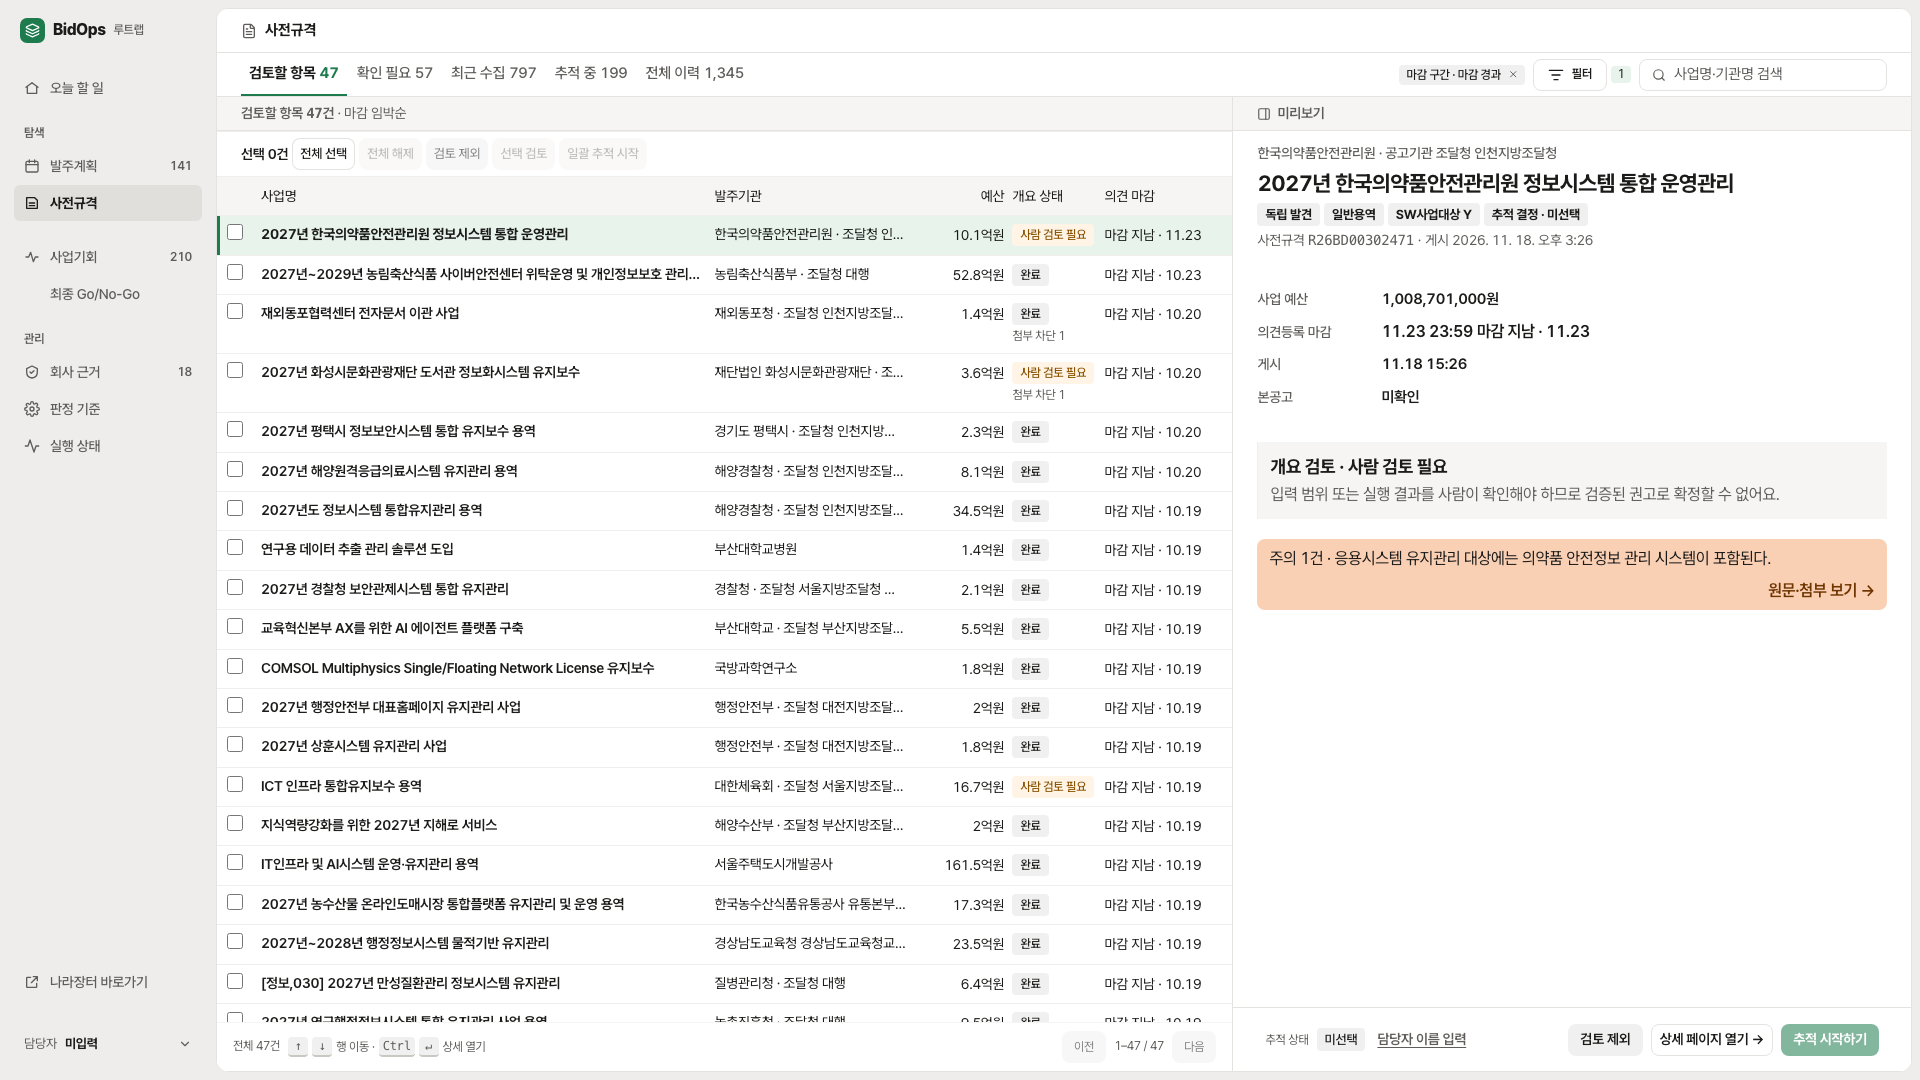
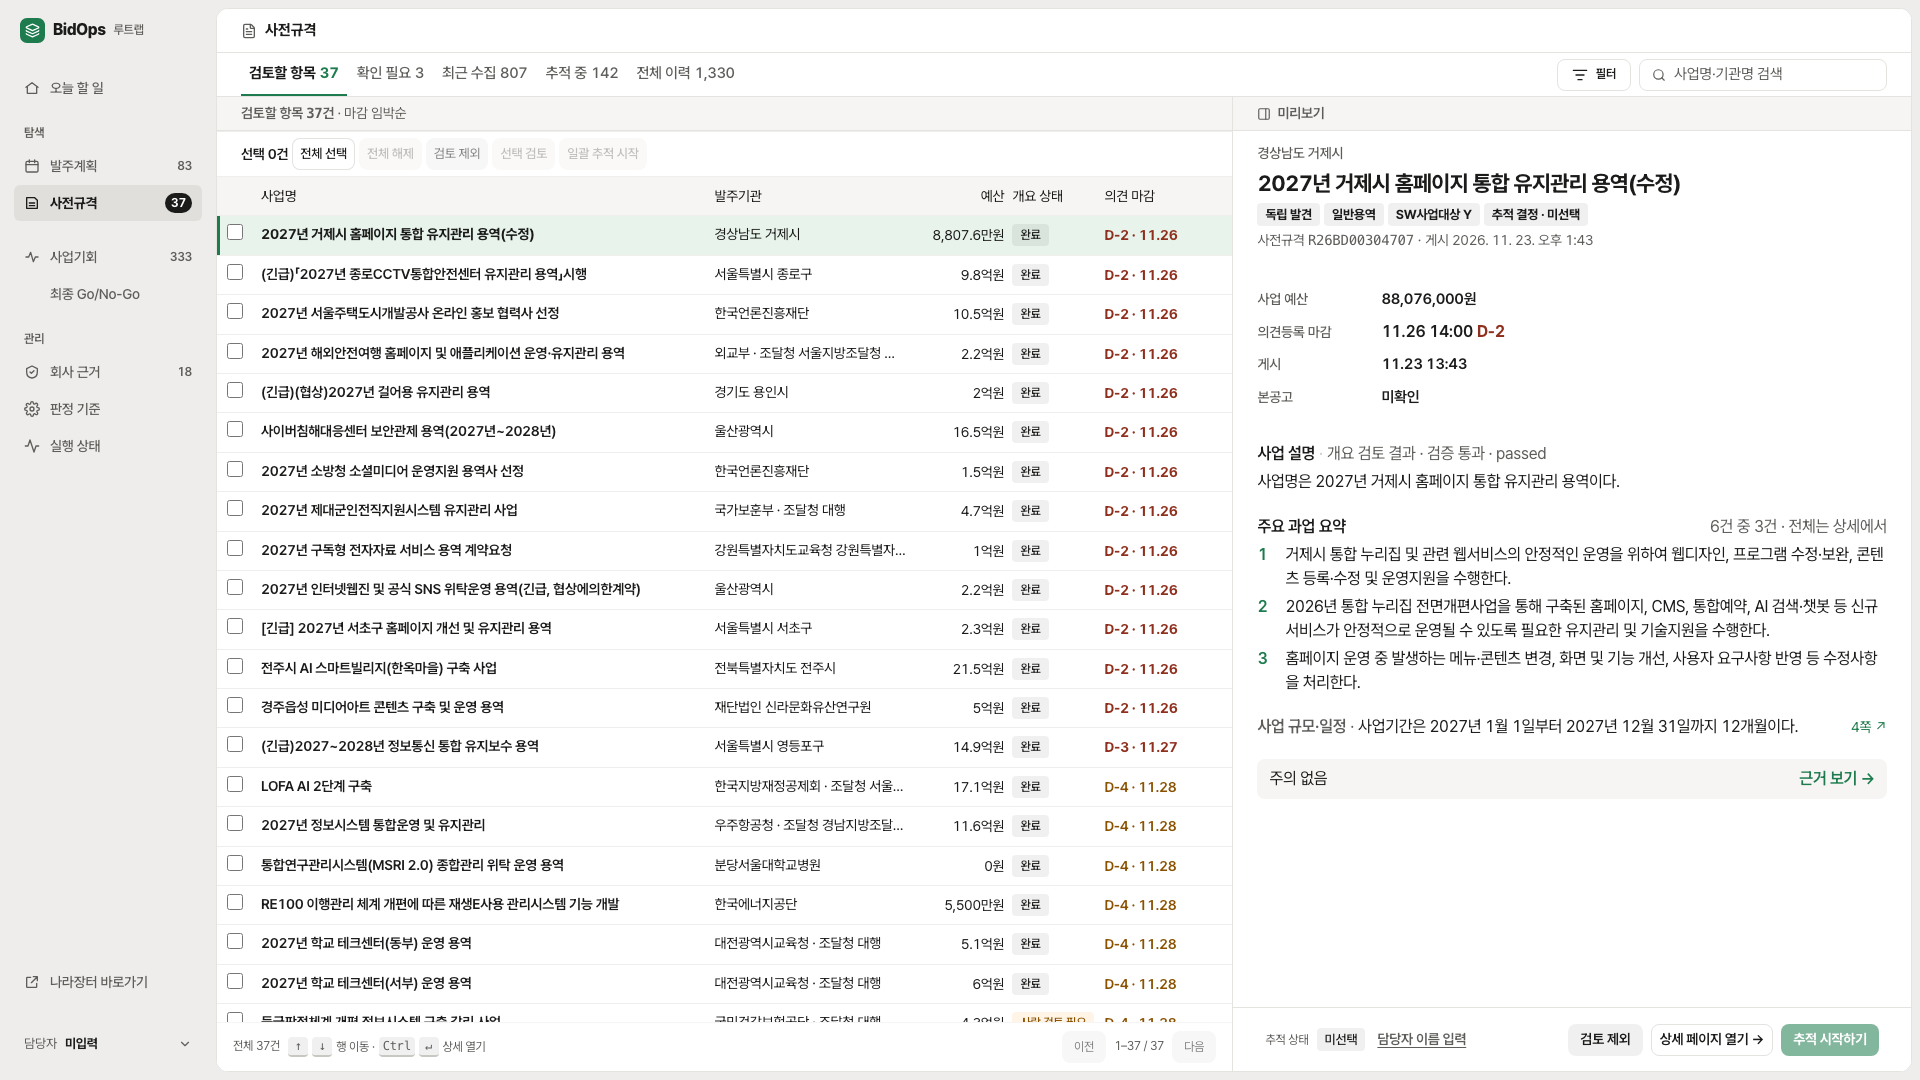
Portfolio: re-sync to the post-cleanup snapshot and refresh screenshots
Default 검토할 항목 view (37), overview-only notice 4190, analysis for 4186 (미선택).

diff --git a/web/frontend/tests-portfolio/full-cycle.spec.ts b/web/frontend/tests-portfolio/full-cycle.spec.ts
@@ -10,20 +10,20 @@ test.afterEach(() => {
 });
 
 test("검토할 항목 list", async ({ page }, info) => {
-  await page.goto("/pre-specs?deadline_scope=passed"); // all 47 review items are past the opinion deadline in this snapshot
-  await expect(page.getByText("검토할 항목 47건", { exact: false })).toBeVisible({ timeout: 30_000 });
+  await page.goto("/pre-specs"); // default view: 검토할 항목, deadline current
+  await expect(page.getByText("검토할 항목 37건", { exact: false })).toBeVisible({ timeout: 30_000 });
   await page.waitForLoadState("networkidle");
   await page.screenshot({ path: `${shots}/${info.project.name}-1-pre-specs-list.png` });
 });
 
-test("detail with overview (untracked 721)", async ({ page }, info) => {
-  await page.goto("/pre-specs/721");
+test("detail with overview (검토할 항목 4190, no engine run)", async ({ page }, info) => {
+  await page.goto("/pre-specs/4190");
   await expect(page.getByText("주요 과업", { exact: false }).first()).toBeVisible({ timeout: 30_000 });
   await page.waitForLoadState("networkidle");
-  await page.screenshot({ path: `${shots}/${info.project.name}-2-detail-overview-721.png`, fullPage: true });
+  await page.screenshot({ path: `${shots}/${info.project.name}-2-detail-overview-4190.png`, fullPage: true });
 });
 
-test("analysis result (tracked 4186, imported engine run)", async ({ page }, info) => {
+test("analysis result (검토할 항목 4186, imported engine run)", async ({ page }, info) => {
   await page.goto("/pre-specs/4186");
   await expect(page.locator("#pa-summary")).toBeVisible({ timeout: 30_000 });
   await page.waitForLoadState("networkidle");
